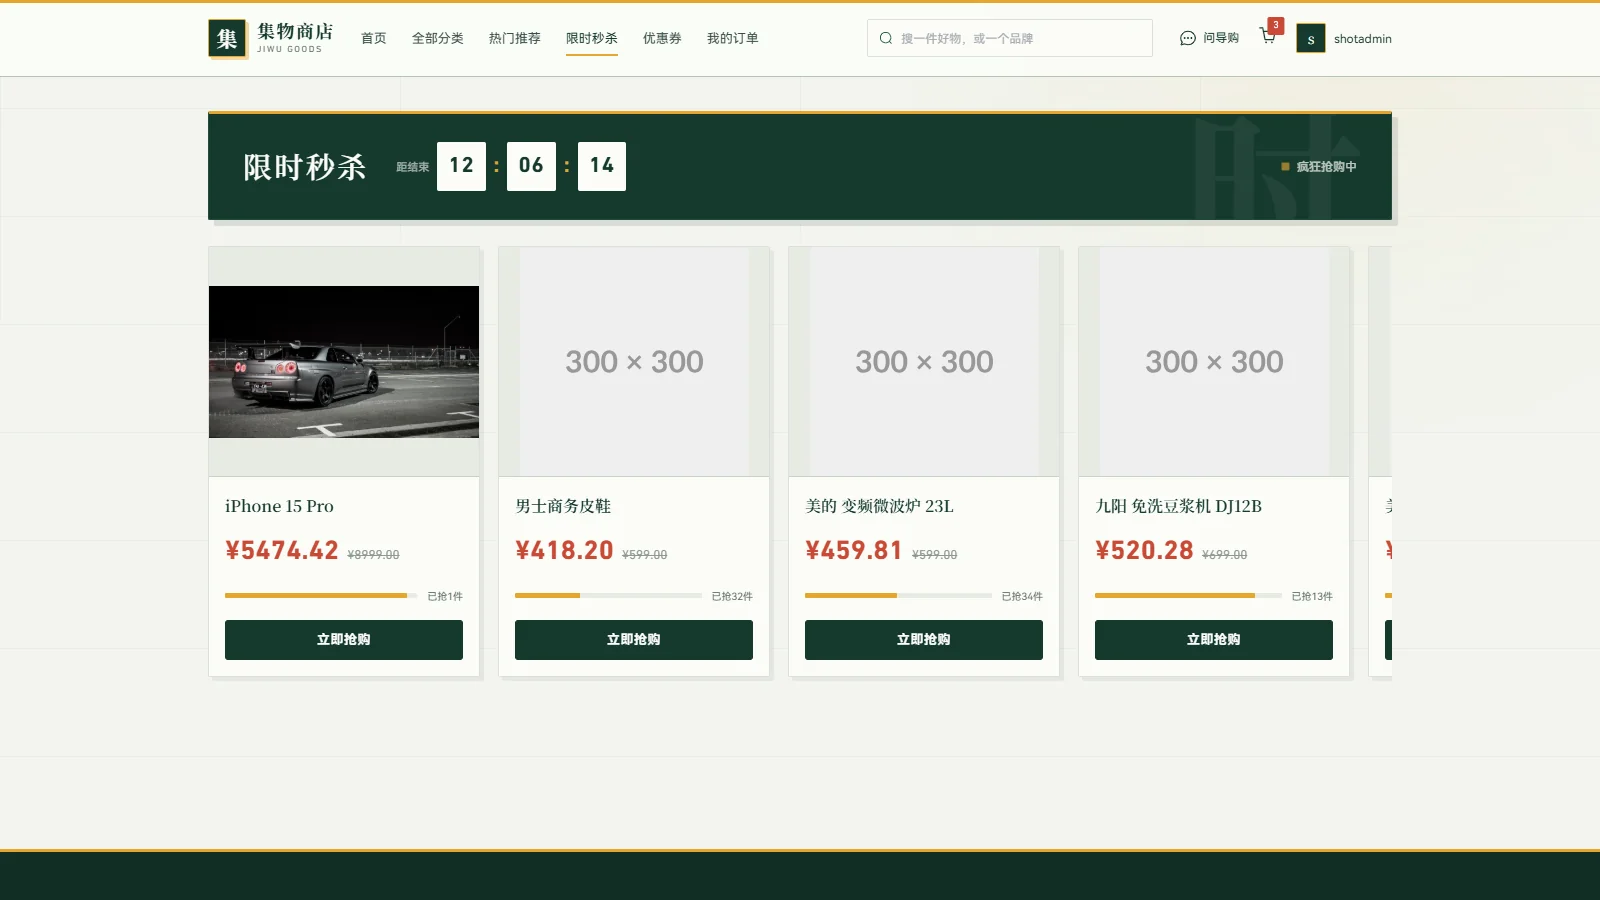
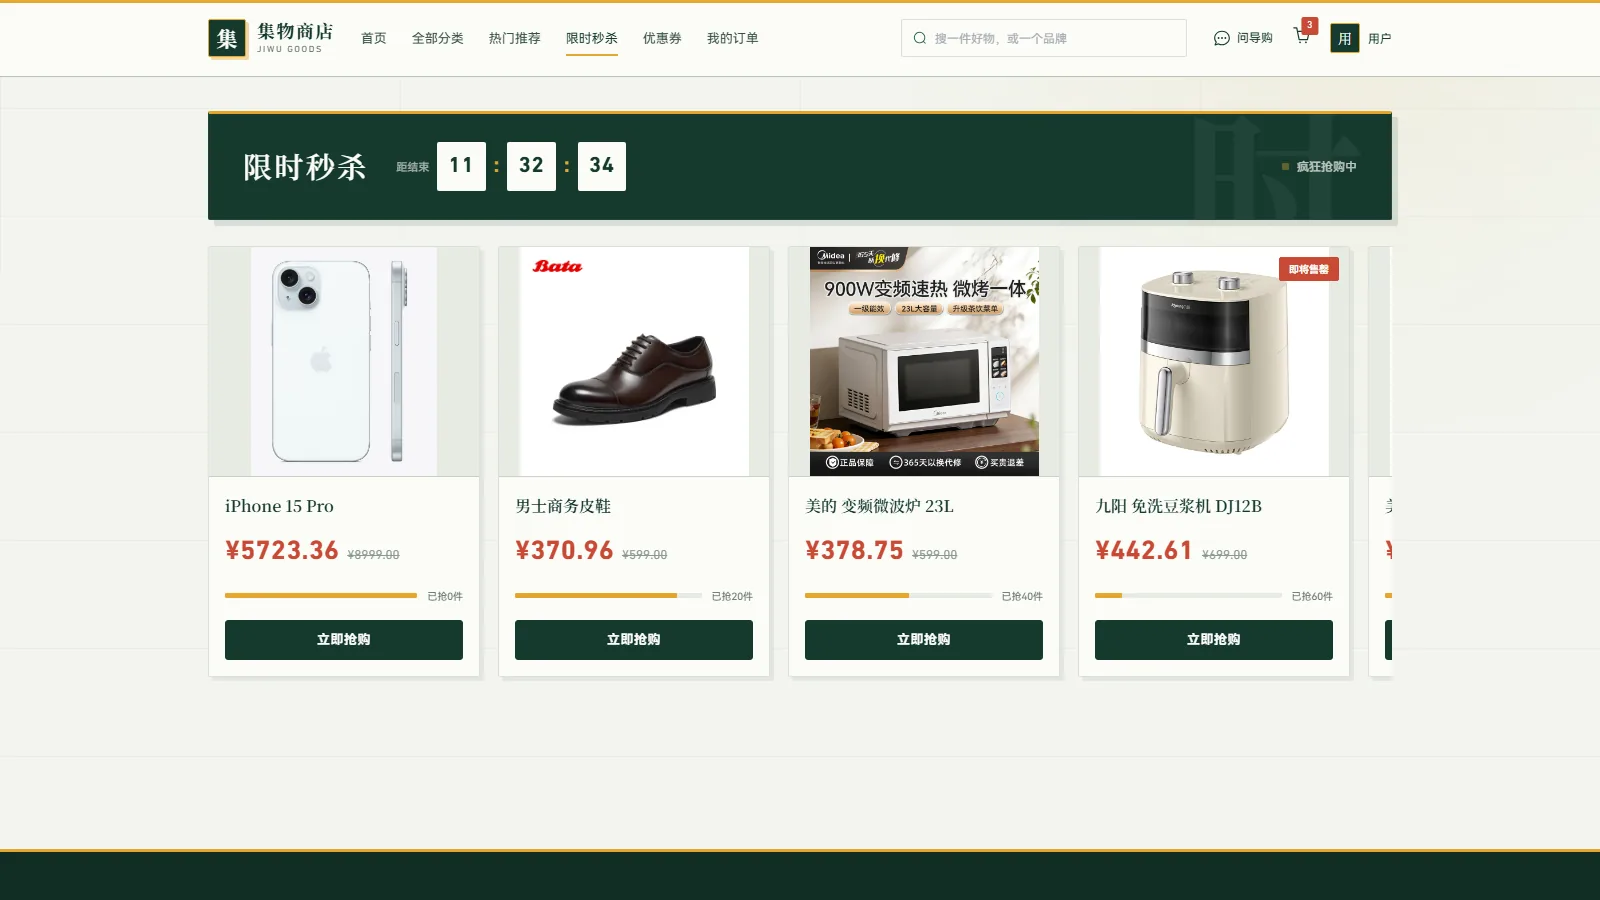
docs: 更新 README 运行界面展示
按当前 C 端实际界面重拍并补充截图（1600x900 WebP）：

- 覆盖：首页、限时秒杀、购物车与结算、AI 智能导购
- 新增：今日货架（16 件/页）、全部分类（多条件筛选）、
  搜索结果（价格分类）、订单支付（支付宝沙箱）、我的订单（商品明细）
- 预览区重排为两列分组，并补充三级联动地址、支付流转、
  秒杀价后端统一计算三点说明

diff --git a/readMe.md b/readMe.md
@@ -8,13 +8,29 @@
 
 ### C 端商城
 
-| 首页 | 限时秒杀 |
+| 首页：今日橱窗轮播 | 今日货架（16 件/页，下滑续接） |
 |---|---|
-| ![C 端首页](docs/screenshots/c-home.webp) | ![限时秒杀](docs/screenshots/c-seckill.webp) |
+| ![C 端首页](docs/screenshots/c-home.webp) | ![今日货架](docs/screenshots/c-home-grid.webp) |
 
-| AI 智能导购 | 购物车与结算 |
+| 全部分类：多条件筛选 | 搜索结果：只出商品 + 价格分类 |
 |---|---|
-| ![AI 智能导购](docs/screenshots/c-ai-guide.webp) | ![购物车与结算](docs/screenshots/c-cart.webp) |
+| ![全部分类](docs/screenshots/c-category.webp) | ![搜索结果](docs/screenshots/c-search.webp) |
+
+| 限时秒杀 | 购物车与结算（省市区三级联动） |
+|---|---|
+| ![限时秒杀](docs/screenshots/c-seckill.webp) | ![购物车与结算](docs/screenshots/c-cart.webp) |
+
+| 订单支付（支付宝沙箱） | 我的订单（逐条展示商品） |
+|---|---|
+| ![订单支付](docs/screenshots/c-pay.webp) | ![我的订单](docs/screenshots/c-orders.webp) |
+
+| AI 智能导购 | |
+|---|---|
+| ![AI 智能导购](docs/screenshots/c-ai-guide.webp) | |
+
+> 结算弹窗是「省份 → 城市 → 区县 → 详细地址」三级联动，手机号不足 11 位会在输入框下方即时红字提示（不等提交）；
+> 下单后跳转支付页，选支付宝沙箱付款，从沙箱返回后订单落在「我的订单」，订单卡片逐条列出所购商品。
+> 秒杀页的秒杀价由后端按商品 ID 统一计算，与订单商品价、实付金额一致。
 
 ### B 端管理后台
 
